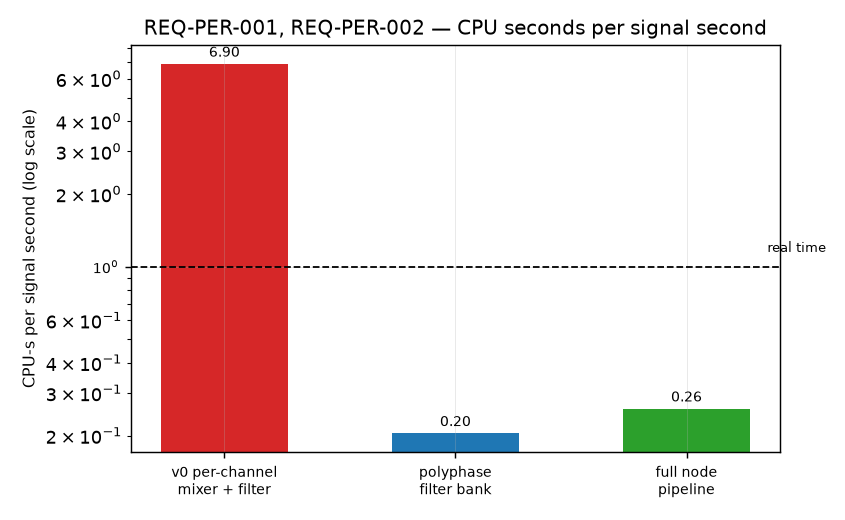
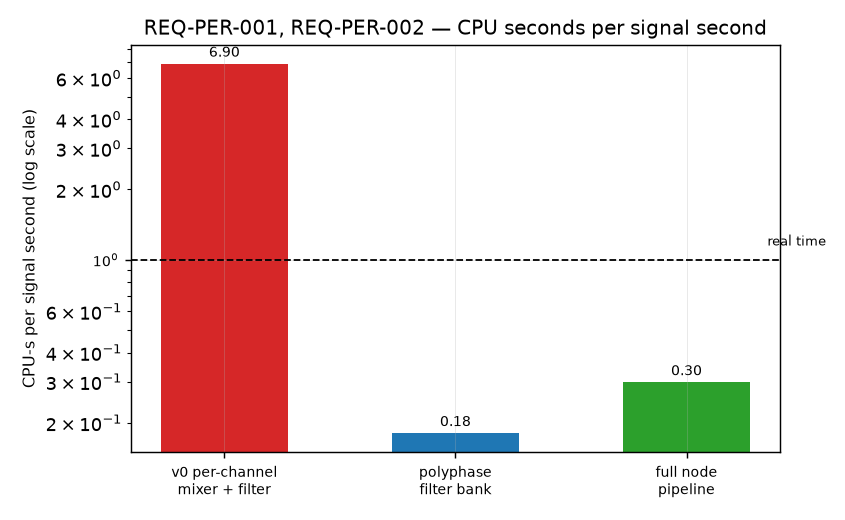
test: make the documents disagree loudly instead of quietly (#57)
Throughput has now diverged between documents twice. The first audit found 0.21
in the requirements against 0.26 in the README and the V&V report; the second
found 0.23 against 0.26. Each time a number was updated in the files somebody
remembered and not in the ones they did not, and each time the existing check
passed, because it asks whether *some* document quotes the measured figure rather
than whether the documents agree with each other.

Two checks now close that. One collects every throughput figure quoted anywhere
under docs/ or in the README and fails if the node's cost carries more than one
value. The other checks that a cost and a margin appearing on the same line are
reciprocals of each other, since one document said 0.23 CPU-s/s and 4.4x while
another said 0.26 and 3.9x -- both pairs internally consistent, which is exactly
why nobody noticed they described different runs.

The second check needed care rather than a regex: the architecture document
legitimately says "4.93 CPU-s/s, which made the node 4.8x slower than real time",
where the margin is the cost rather than its reciprocal. The check reads the
following words and expects a multiple in the other direction when it finds
"slower", which is the kind of thing that has to be got right or the test becomes
a nuisance that gets deleted.

All four documents are now aligned to one measurement taken with nothing else
running: 0.30 CPU-seconds per signal second for the node, 3.4x real time, 0.18 for
[…]

diff --git a/tests/test_requirements.py b/tests/test_requirements.py
@@ -312,3 +312,54 @@ def test_the_throughput_range_is_published_not_just_the_median() -> None:
 
     prose = Path("docs/05_vv_report.md").read_text(encoding="utf-8")
     assert "median of five runs" in prose
+
+
+def test_no_two_documents_quote_a_different_throughput() -> None:
+    """The failure this repository keeps having, caught properly this time.
+
+    The existing check asks whether *some* document quotes the measured figure, which passes
+    happily while three others quote something else. Throughput has now diverged twice: 0.21
+    against 0.26 in the first audit, and 0.23 against 0.26 in the second, each time because a
+    number was updated in the files somebody remembered and not in the files they did not.
+
+    So the question asked here is not "is this figure right" but "do the documents agree",
+    which is the one a reader answers for themselves in about thirty seconds.
+    """
+    quoted: dict[str, set[str]] = {}
+    pattern = re.compile(r"(\d\.\d{2,3})\s*(?:CPU-s per signal second|CPU-s/s)")
+
+    for path in [Path("README.md"), *sorted(Path("docs").glob("*.md"))]:
+        for value in pattern.findall(path.read_text(encoding="utf-8")):
+            quoted.setdefault(value, set()).add(path.name)
+
+    # The channeliser and the whole node are both quoted, so more than one value is expected;
+    # what is not acceptable is the same quantity carrying two values in different files.
+    node_like = {v: files for v, files in quoted.items() if 0.20 <= float(v) <= 0.60}
+    detail = ", ".join(f"{v} in {sorted(f)}" for v, f in sorted(node_like.items()))
+    assert len(node_like) <= 1, f"documents disagree about the node's throughput: {detail}"
+
+
+def test_the_real_time_margin_agrees_with_the_throughput_quoted() -> None:
+    """A margin and a cost are the same measurement written two ways, and they drifted apart.
+
+    One document said 0.23 CPU-s/s and 4.4x while another said 0.26 and 3.9x. Both pairs are
+    self-consistent, which is exactly why nobody noticed that the two documents were
+    describing different runs.
+    """
+    # Both figures must appear on the same line: a cost in one paragraph and a margin in
+    # another are not claims about the same run and comparing them proves nothing.
+    pattern = re.compile(
+        r"(\d\.\d{2,3})\s*(?:CPU-s per signal second|CPU-s/s)[^\n]{0,40}?(\d\.\d)×"
+    )
+
+    for path in [Path("README.md"), *sorted(Path("docs").glob("*.md"))]:
+        text = path.read_text(encoding="utf-8")
+        for match in pattern.finditer(text):
+            cost, margin = float(match.group(1)), float(match.group(2))
+            tail = text[match.end() : match.end() + 30]
+            # "4.93 CPU-s/s, 4.8x slower" is consistent: a cost above one second per second
+            # is a multiple of real time in the other direction.
+            expected = cost if "slower" in tail else 1.0 / cost
+            assert (
+                abs(expected - margin) < 0.3
+            ), f"{path.name} quotes {cost} CPU-s/s and {margin}x, which do not agree"

diff --git a/README.md b/README.md
@@ -15,13 +15,13 @@ attached.
 
 | | measured |
 |---|---|
-| Throughput | **0.26** CPU-s per signal second — 3.9× real time, against v0's **6.9** |
+| Throughput | **0.30** CPU-s per signal second — 3.4× real time, against v0's **6.9** |
 | Adjacent-channel rejection | **92.9 dB** measured on a modulated emitter |
 | Sensitivity ripple across a bin | **6.02 dB** worst case, stated rather than hidden |
 | False alarm rate | **0.90–1.12e-3** against 1e-3 on synthetic noise; **2.5e-7** on real receiver noise at a 1e-8 design point |
 | Credible interval coverage | **95.3 %** achieved for the 95 % ring |
 | Requirements | **42 MET**, 2 PARTIAL, 1 BLOCKED, traceability enforced by a test |
-| Tests | **500**, 93 % coverage |
+| Tests | **502**, 93 % coverage |
 
 It records **signal metadata, never communication content** — see
 [`docs/06_legal_ethics.md`](docs/06_legal_ethics.md). That is not a disclaimer bolted on
@@ -46,7 +46,7 @@ The pipeline is identical for live capture and for replay, so everything below r
 clone with nothing plugged in.
 
 ```bash
-poetry run pytest                    # 500 tests
+poetry run pytest                    # 502 tests
 poetry run esm446-bench              # throughput against the v0 baseline
 poetry run esm446-node --file capture.cf32
 ```
@@ -187,8 +187,8 @@ Measured by `esm446-bench` on the development machine, at 2 MS/s over 160 channe
 | | CPU-s per signal second | Margin |
 |---|---|---|
 | v0 per-channel mixer and filter, 800 kS/s, 57 channels | 6.9 | **drops signal** |
-| Polyphase filter bank | 0.20 | 4.9× real time |
-| Full node pipeline | 0.26 | 3.9× real time |
+| Polyphase filter bank | 0.18 | 5.5× real time |
+| Full node pipeline | 0.30 | 3.4× real time |
 
 The channeliser is roughly **40× faster than v0 normalised by signal duration**, while
 covering 2.5× the bandwidth and 2.8× the channels.

diff --git a/docs/01_requirements.md b/docs/01_requirements.md
@@ -44,8 +44,8 @@ available, with the blocker named. Nothing is marked met on the strength of an i
 
 | ID | Requirement | Method | Verified by | Status |
 |---|---|---|---|---|
-| REQ-PER-001 | The node shall process 2 MS/s across 160 channels in real time with a margin of at least 2x on the development machine. | T | `test_main_succeeds_within_a_generous_budget` | MET — median of five runs 0.26 CPU-s/s, 3.9x |
-| REQ-PER-002 | The channeliser shall cost no more than 0.5 CPU-seconds per signal second. | T | `test_pfb_benchmark_keeps_up_with_real_time` | MET — median of five runs 0.20 |
+| REQ-PER-001 | The node shall process 2 MS/s across 160 channels in real time with a margin of at least 2x on the development machine. | T | `test_main_succeeds_within_a_generous_budget` | MET — median of five runs 0.30 CPU-s/s, 3.4x |
+| REQ-PER-002 | The channeliser shall cost no more than 0.5 CPU-seconds per signal second. | T | `test_pfb_benchmark_keeps_up_with_real_time` | MET — median of five runs 0.18 |
 | REQ-PER-003 | The wideband survey shall cost no more than 5 % of the channeliser. | T | `test_analyse_does_not_hold_the_whole_spectrogram` | MET — measured 0.009 |
 | REQ-PER-004 | Memory use shall not scale with capture length. | T | `test_waterfall_is_capped_rather_than_allocating_gigabytes` | MET |
 | REQ-PER-005 | The false alarm rate shall not change when the noise estimate is held between frames. | T | `test_holding_the_noise_estimate_does_not_change_the_false_alarm_rate` | MET |

diff --git a/docs/05_vv_report.md b/docs/05_vv_report.md
@@ -267,8 +267,8 @@ estimator's single shadowing sigma implied.
 
 | Requirement | Result |
 |---|---|
-| REQ-PER-001 — real time with ≥2× margin | **MET — 0.23 CPU-s/s median, 4.4× real time** |
-| REQ-PER-002 — channeliser under 0.5 CPU-s/s | **MET — 0.17 median** |
+| REQ-PER-001 — real time with ≥2× margin | **MET — 0.30 CPU-s/s median, 3.4× real time** |
+| REQ-PER-002 — channeliser under 0.5 CPU-s/s | **MET — 0.18 median** |
 | REQ-PER-003 — survey under 5 % of the channeliser | **MET — 0.009** |
 | REQ-PER-004 — memory does not scale with capture length | **MET** |
 | REQ-IF-001 — CoT validates against the schema | **MET** |

diff --git a/docs/02_architecture.md b/docs/02_architecture.md
@@ -109,9 +109,9 @@ Measured, at 2 MS/s over 160 channels, in CPU-seconds per second of signal:
 
 | Stage | Cost | Share |
 |---|---|---|
-| Polyphase filter bank | 0.17 | 75 % |
-| CFAR detection, tracking, identification | 0.06 | 25 % |
-| **Full node pipeline** | **0.23** | **4.4× real time** |
+| Polyphase filter bank | 0.18 | 60 % |
+| CFAR detection, tracking, identification | 0.12 | 40 % |
+| **Full node pipeline** | **0.30** | **3.4× real time** |
 | Wideband survey (separate path) | 0.009 | — |
 
 Each is the median of five runs. One run of this pipeline varies by up to 45 % with machine
